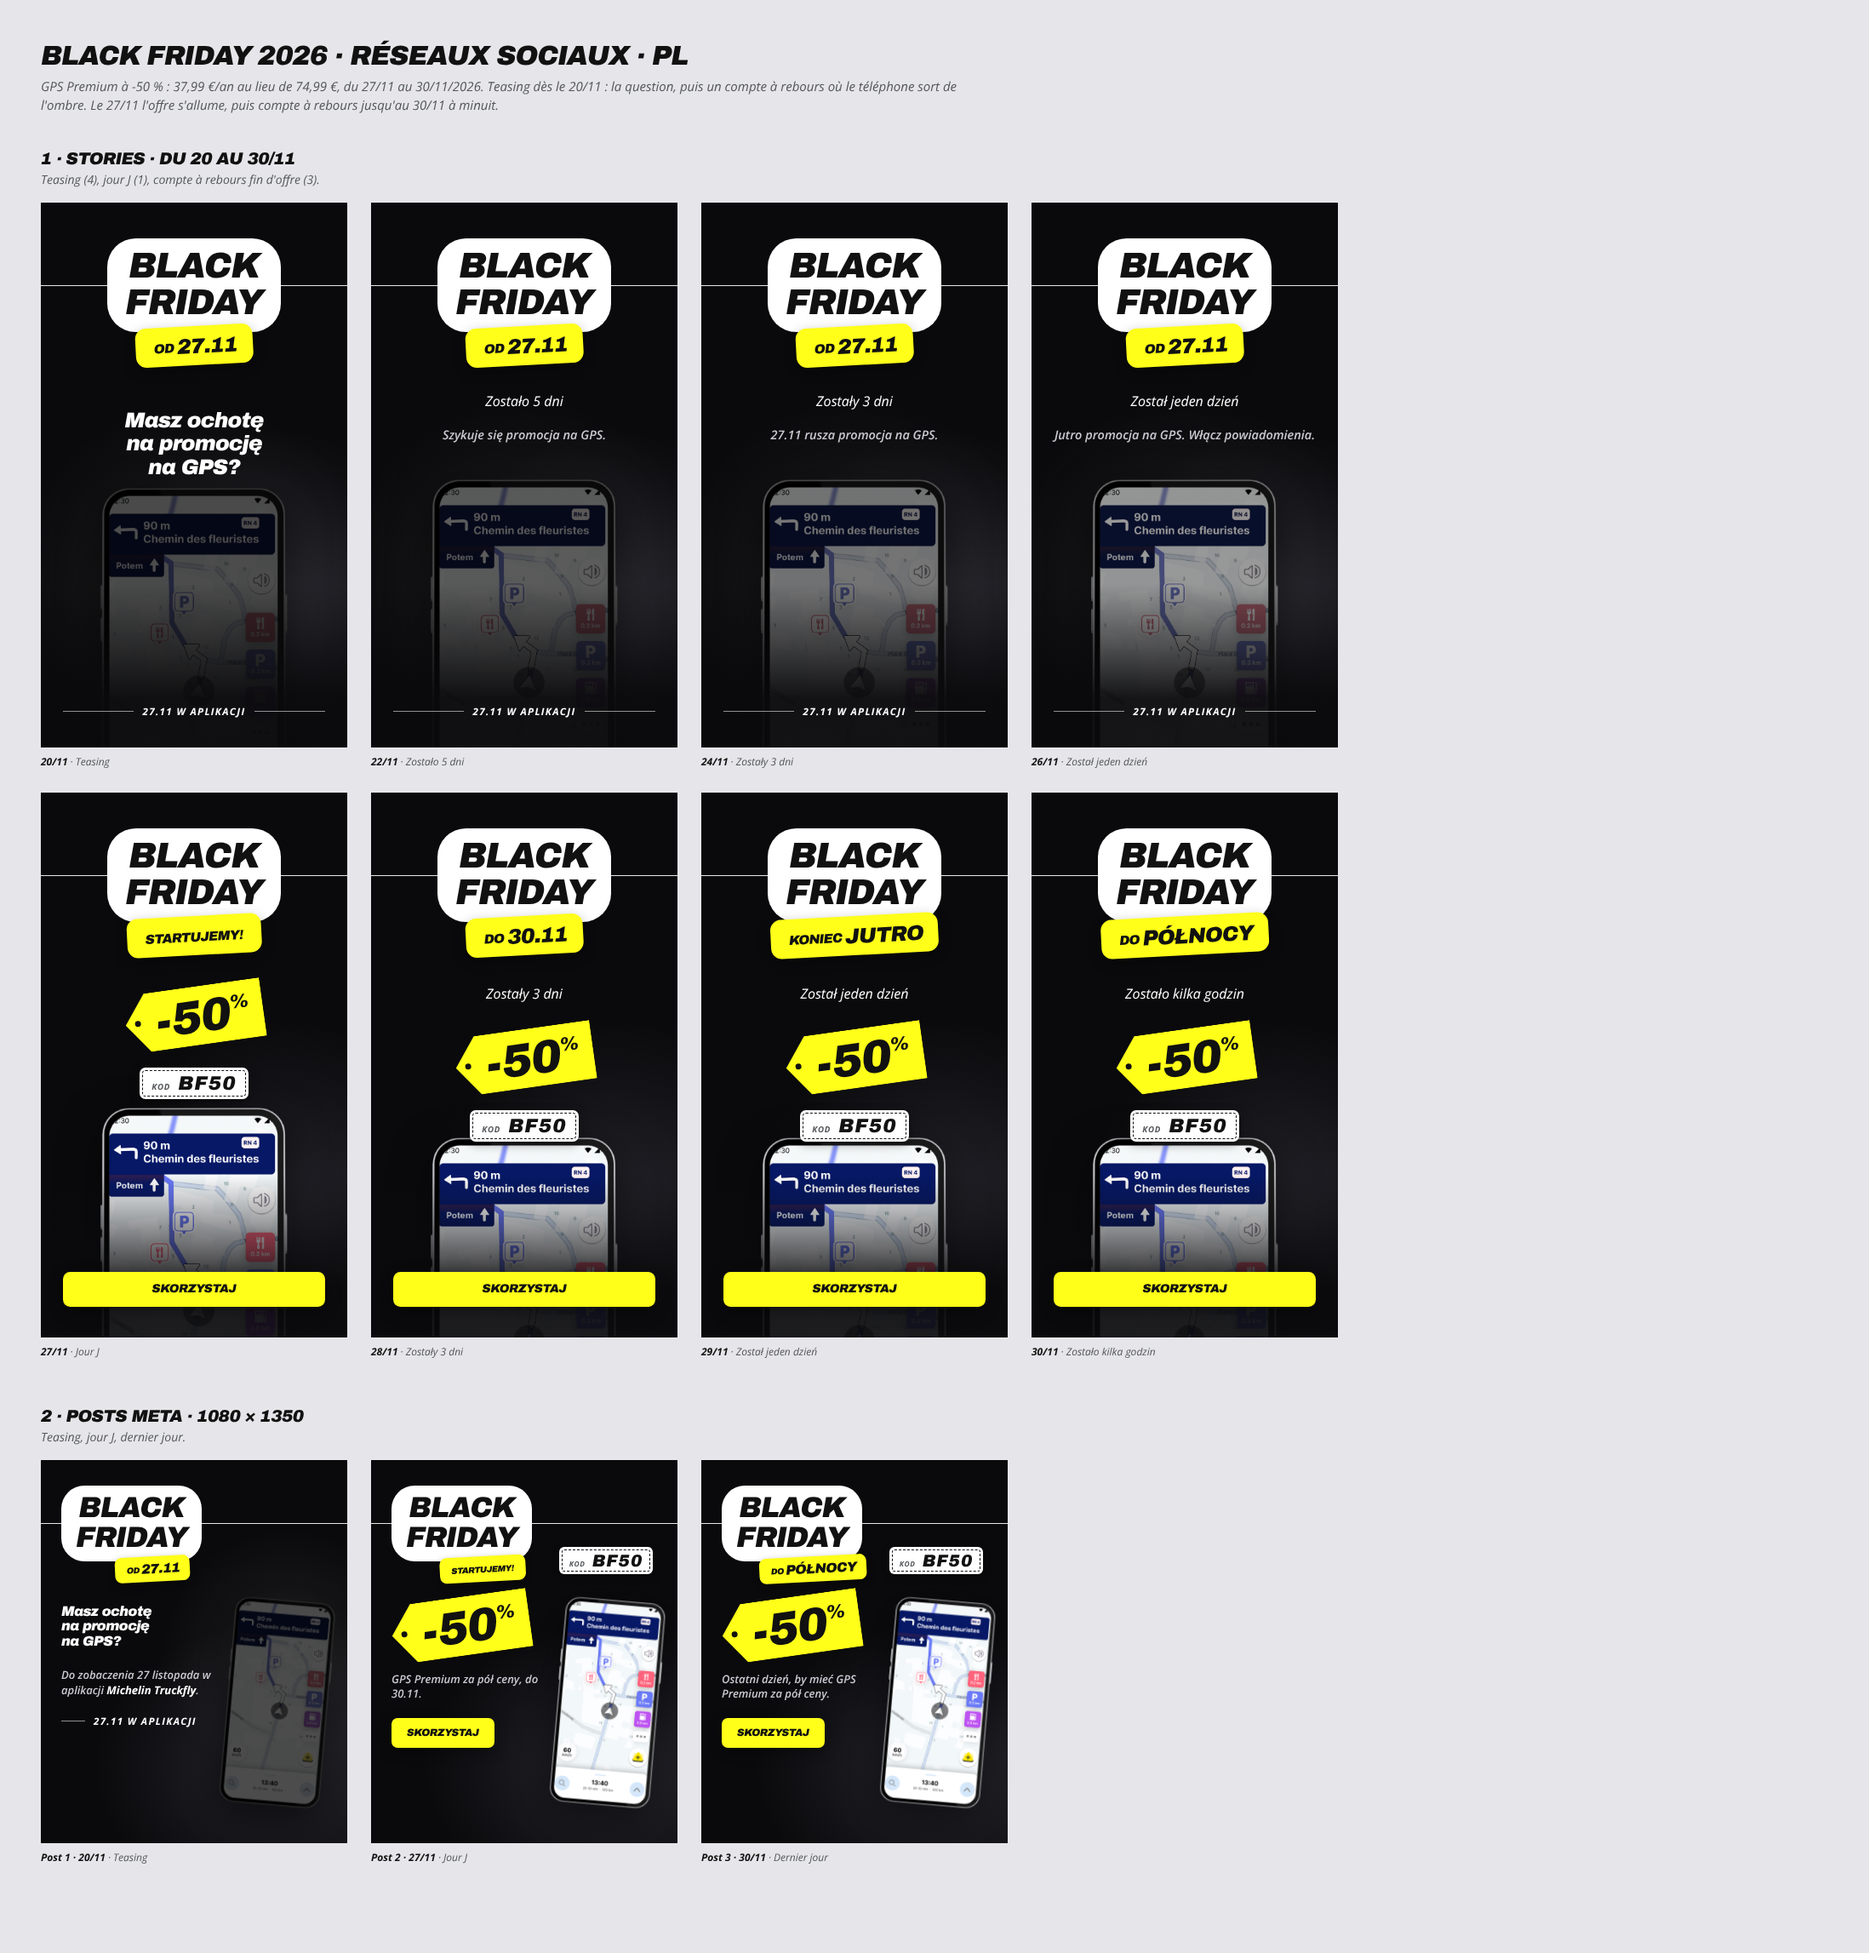
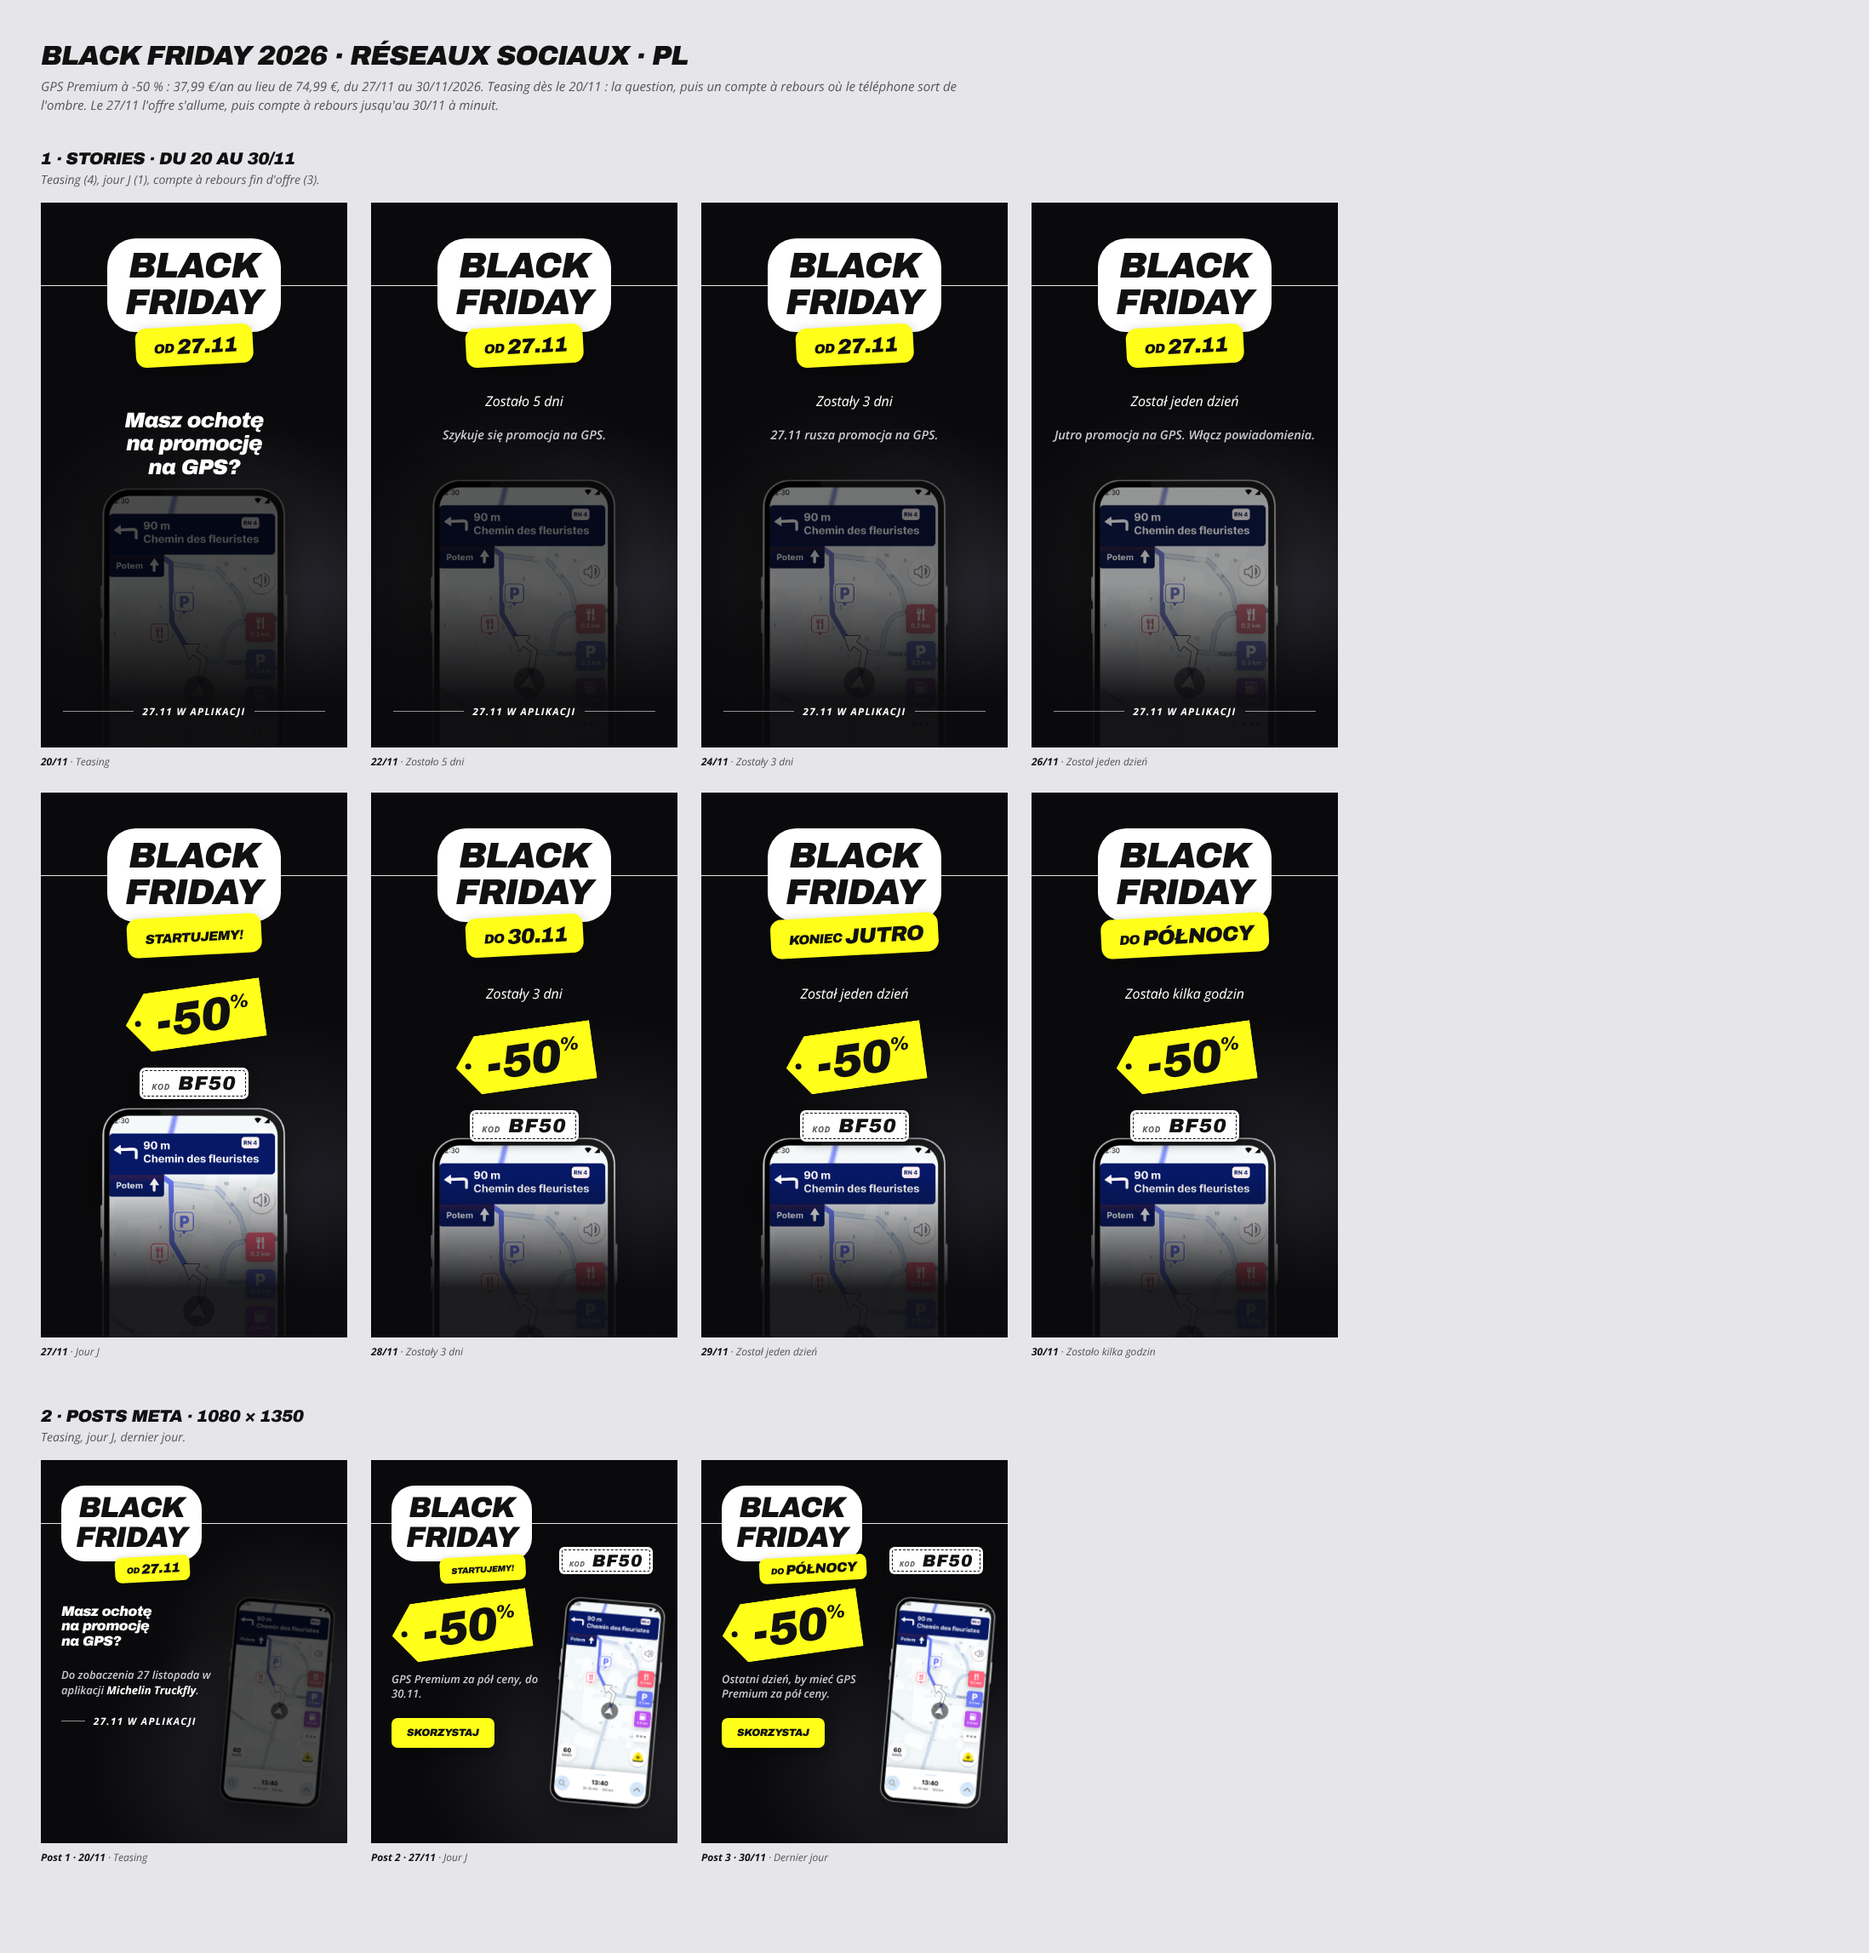
Black Friday: remove CTA button from offer stories (link sticker added in Instagram)
Claude-Session: https://claude.ai/code/session_01Dxf6WNpnQxv74aPZfAxqSJ

Changed region(s): [[0.031, 0.65, 0.5264, 0.6809], [0.5574, 0.65, 0.7122, 0.6809]]

diff --git a/black-friday/campagne.html b/black-friday/campagne.html
@@ -363,8 +363,8 @@ const FR = L.fr;
 const S = (cls, inner) => `<div class="kv v story fondu ${cls}" style="--w:360px;--h:640px;--u:10px">${inner}</div>`;
 const storyQuestion = t => S("question", `${titre(t.dTeasing)}<h3 class="accroche">${t.question}</h3>${tel(.3)}<div class="bas">${rdv(t.rdvC)}</div>`);
 const storyAvant = (t, compte, sous, lum) => S("avant", `${titre(t.dTeasing)}<p class="compte">${compte}</p><p class="sous">${sous}</p>${tel(lum)}<div class="bas">${rdv(t.rdvC)}</div>`);
-const storyOffre = t => S("offre", `${titre(t.dJ)}${lignePrix(t)}${ligneCode(t)}${tel(1)}<div class="bas">${cta(t.profite)}</div>`);
-const storyFin = (t, date, compte) => S("fin", `${titre(date)}<p class="compte">${compte}</p>${lignePrix(t)}${ligneCode(t)}${tel(1)}<div class="bas">${cta(t.profite)}</div>`);
+const storyOffre = t => S("offre", `${titre(t.dJ)}${lignePrix(t)}${ligneCode(t)}${tel(1)}`); // sans bouton : sticker lien ajouté dans Instagram
+const storyFin = (t, date, compte) => S("fin", `${titre(date)}<p class="compte">${compte}</p>${lignePrix(t)}${ligneCode(t)}${tel(1)}`); // sans bouton : sticker lien ajouté dans Instagram
 
 /* ===== Posts Meta (par langue, 1080 × 1350) ===== */
 const P = (cls, date, gauche, lum, extra = "") => `<div class="kv post ${cls}" style="--w:360px;--h:450px;--u:10px">${titre(date)}<div class="gauche">${gauche}</div>${extra}${tel(lum)}</div>`;
